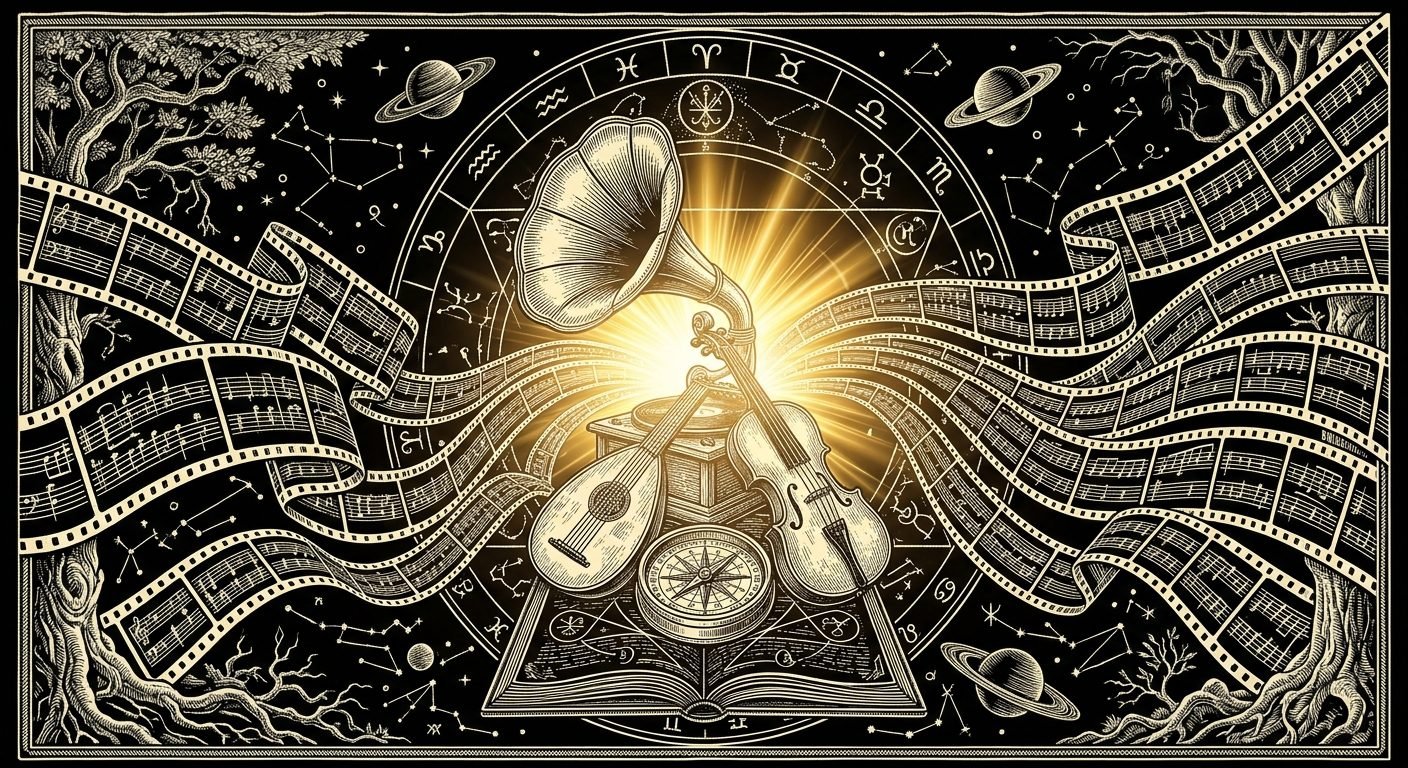
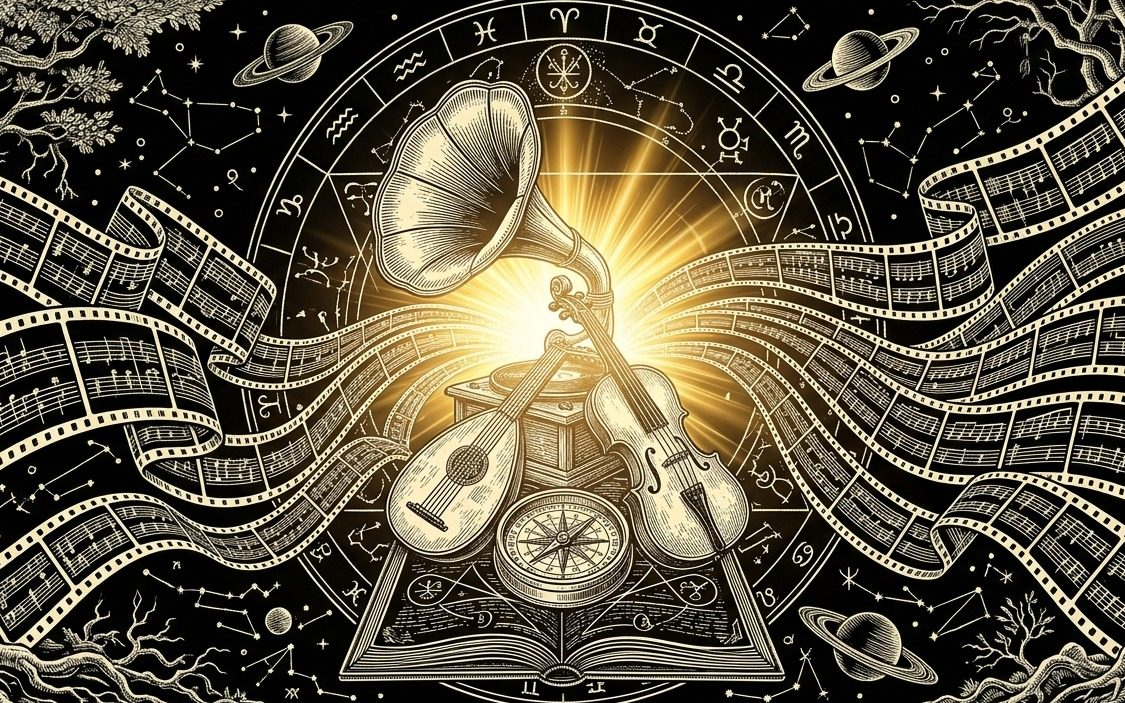
Crop the animated music video card inside its drawn frame
Claude-Session: https://claude.ai/code/session_01HCZU4BLCc4zT5G13vewitE

diff --git a/public/formulated.html b/public/formulated.html
@@ -232,7 +232,7 @@ a[data-yt]{cursor:pointer}
 <div class="bb-gview">
 <div class="bb-frame">
 <div class="bb-gstage">
-<img src="/images/gallery/studio-moment-01.jpg" alt="Studio moment 1" class="bb-gimg">
+<img src="/images/gallery/studio-moment-15.jpg" alt="Studio moment 1" class="bb-gimg">
 
 </div>
 </div>
@@ -250,102 +250,102 @@ a[data-yt]{cursor:pointer}
 <div class="bb-gthumbs" role="list">
 
 <button type="button" class="bb-gth bb-gth-on" aria-label="Show Studio moment 1" aria-current="true" role="listitem">
-<span class="bb-gthimg" style="background-image: url(/images/gallery/studio-moment-01.jpg)"></span>
-
-</button>
-
-<button type="button" class="bb-gth" aria-label="Show Studio moment 2" aria-current="false" role="listitem">
-<span class="bb-gthimg" style="background-image: url(/images/gallery/studio-moment-17.jpg)"></span>
-
-</button>
-
-<button type="button" class="bb-gth" aria-label="Show Studio moment 3" aria-current="false" role="listitem">
-<span class="bb-gthimg" style="background-image: url(/images/gallery/studio-moment-04.jpg)"></span>
-
-</button>
-
-<button type="button" class="bb-gth" aria-label="Show Studio moment 4" aria-current="false" role="listitem">
-<span class="bb-gthimg" style="background-image: url(/images/gallery/studio-moment-20.jpg)"></span>
-
-</button>
-
-<button type="button" class="bb-gth" aria-label="Show Studio moment 5" aria-current="false" role="listitem">
-<span class="bb-gthimg" style="background-image: url(/images/gallery/studio-moment-10.jpg)"></span>
-
-</button>
-
-<button type="button" class="bb-gth" aria-label="Show Studio moment 6" aria-current="false" role="listitem">
-<span class="bb-gthimg" style="background-image: url(/images/gallery/studio-moment-02.jpg)"></span>
-
-</button>
-
-<button type="button" class="bb-gth" aria-label="Show Studio moment 7" aria-current="false" role="listitem">
-<span class="bb-gthimg" style="background-image: url(/images/gallery/studio-moment-12.jpg)"></span>
-
-</button>
-
-<button type="button" class="bb-gth" aria-label="Show Studio moment 8" aria-current="false" role="listitem">
-<span class="bb-gthimg" style="background-image: url(/images/gallery/studio-moment-11.jpg)"></span>
-
-</button>
-
-<button type="button" class="bb-gth" aria-label="Show Studio moment 9" aria-current="false" role="listitem">
-<span class="bb-gthimg" style="background-image: url(/images/gallery/studio-moment-09.jpg)"></span>
-
-</button>
-
-<button type="button" class="bb-gth" aria-label="Show Studio moment 10" aria-current="false" role="listitem">
 <span class="bb-gthimg" style="background-image: url(/images/gallery/studio-moment-15.jpg)"></span>
 
 </button>
 
-<button type="button" class="bb-gth" aria-label="Show Studio moment 11" aria-current="false" role="listitem">
-<span class="bb-gthimg" style="background-image: url(/images/gallery/studio-moment-05.jpg)"></span>
+<button type="button" class="bb-gth" aria-label="Show Studio moment 2" aria-current="false" role="listitem">
+<span class="bb-gthimg" style="background-image: url(/images/gallery/studio-moment-10.jpg)"></span>
 
 </button>
 
-<button type="button" class="bb-gth" aria-label="Show Studio moment 12" aria-current="false" role="listitem">
+<button type="button" class="bb-gth" aria-label="Show Studio moment 3" aria-current="false" role="listitem">
+<span class="bb-gthimg" style="background-image: url(/images/gallery/studio-moment-01.jpg)"></span>
+
+</button>
+
+<button type="button" class="bb-gth" aria-label="Show Studio moment 4" aria-current="false" role="listitem">
 <span class="bb-gthimg" style="background-image: url(/images/gallery/studio-moment-16.jpg)"></span>
 
 </button>
 
-<button type="button" class="bb-gth" aria-label="Show Studio moment 13" aria-current="false" role="listitem">
+<button type="button" class="bb-gth" aria-label="Show Studio moment 5" aria-current="false" role="listitem">
+<span class="bb-gthimg" style="background-image: url(/images/gallery/studio-moment-11.jpg)"></span>
+
+</button>
+
+<button type="button" class="bb-gth" aria-label="Show Studio moment 6" aria-current="false" role="listitem">
 <span class="bb-gthimg" style="background-image: url(/images/gallery/studio-moment-07.jpg)"></span>
 
 </button>
 
-<button type="button" class="bb-gth" aria-label="Show Studio moment 14" aria-current="false" role="listitem">
-<span class="bb-gthimg" style="background-image: url(/images/gallery/studio-moment-19.jpg)"></span>
+<button type="button" class="bb-gth" aria-label="Show Studio moment 7" aria-current="false" role="listitem">
+<span class="bb-gthimg" style="background-image: url(/images/gallery/studio-moment-09.jpg)"></span>
 
 </button>
 
-<button type="button" class="bb-gth" aria-label="Show Studio moment 15" aria-current="false" role="listitem">
+<button type="button" class="bb-gth" aria-label="Show Studio moment 8" aria-current="false" role="listitem">
 <span class="bb-gthimg" style="background-image: url(/images/gallery/studio-moment-14.jpg)"></span>
 
 </button>
 
-<button type="button" class="bb-gth" aria-label="Show Studio moment 16" aria-current="false" role="listitem">
-<span class="bb-gthimg" style="background-image: url(/images/gallery/studio-moment-08.jpg)"></span>
+<button type="button" class="bb-gth" aria-label="Show Studio moment 9" aria-current="false" role="listitem">
+<span class="bb-gthimg" style="background-image: url(/images/gallery/studio-moment-02.jpg)"></span>
 
 </button>
 
-<button type="button" class="bb-gth" aria-label="Show Studio moment 17" aria-current="false" role="listitem">
-<span class="bb-gthimg" style="background-image: url(/images/gallery/studio-moment-06.jpg)"></span>
+<button type="button" class="bb-gth" aria-label="Show Studio moment 10" aria-current="false" role="listitem">
+<span class="bb-gthimg" style="background-image: url(/images/gallery/studio-moment-19.jpg)"></span>
 
 </button>
 
-<button type="button" class="bb-gth" aria-label="Show Studio moment 18" aria-current="false" role="listitem">
-<span class="bb-gthimg" style="background-image: url(/images/gallery/studio-moment-13.jpg)"></span>
-
-</button>
-
-<button type="button" class="bb-gth" aria-label="Show Studio moment 19" aria-current="false" role="listitem">
+<button type="button" class="bb-gth" aria-label="Show Studio moment 11" aria-current="false" role="listitem">
 <span class="bb-gthimg" style="background-image: url(/images/gallery/studio-moment-18.jpg)"></span>
 
 </button>
 
-<button type="button" class="bb-gth" aria-label="Show Studio moment 20" aria-current="false" role="listitem">
+<button type="button" class="bb-gth" aria-label="Show Studio moment 12" aria-current="false" role="listitem">
+<span class="bb-gthimg" style="background-image: url(/images/gallery/studio-moment-04.jpg)"></span>
+
+</button>
+
+<button type="button" class="bb-gth" aria-label="Show Studio moment 13" aria-current="false" role="listitem">
+<span class="bb-gthimg" style="background-image: url(/images/gallery/studio-moment-13.jpg)"></span>
+
+</button>
+
+<button type="button" class="bb-gth" aria-label="Show Studio moment 14" aria-current="false" role="listitem">
+<span class="bb-gthimg" style="background-image: url(/images/gallery/studio-moment-17.jpg)"></span>
+
+</button>
+
+<button type="button" class="bb-gth" aria-label="Show Studio moment 15" aria-current="false" role="listitem">
+<span class="bb-gthimg" style="background-image: url(/images/gallery/studio-moment-12.jpg)"></span>
+
+</button>
+
+<button type="button" class="bb-gth" aria-label="Show Studio moment 16" aria-current="false" role="listitem">
+<span class="bb-gthimg" style="background-image: url(/images/gallery/studio-moment-05.jpg)"></span>
+
+</button>
+
+<button type="button" class="bb-gth" aria-label="Show Studio moment 17" aria-current="false" role="listitem">
+<span class="bb-gthimg" style="background-image: url(/images/gallery/studio-moment-08.jpg)"></span>
+
+</button>
+
+<button type="button" class="bb-gth" aria-label="Show Studio moment 18" aria-current="false" role="listitem">
+<span class="bb-gthimg" style="background-image: url(/images/gallery/studio-moment-20.jpg)"></span>
+
+</button>
+
+<button type="button" class="bb-gth" aria-label="Show Studio moment 19" aria-current="false" role="listitem">
 <span class="bb-gthimg" style="background-image: url(/images/gallery/studio-moment-03.jpg)"></span>
+
+</button>
+
+<button type="button" class="bb-gth" aria-label="Show Studio moment 20" aria-current="false" role="listitem">
+<span class="bb-gthimg" style="background-image: url(/images/gallery/studio-moment-06.jpg)"></span>
 
 </button>
 

diff --git a/design/About.dc.html b/design/About.dc.html
@@ -183,7 +183,7 @@ html{scroll-behavior:smooth}
 <ul class="bb-cards2">
 <li class="bb-card2"><span class="bb-c2img" style="background-image: url(/_blob/4250c15923301c0c09142fe868c0269d)" aria-hidden="true"></span><span class="bb-mono bb-c2from">voice and guitar →</span><span class="bb-c2to">full arrangement</span><span class="bb-body">A single voice and guitar grown into the full sound the song has been reaching for.</span></li>
 <li class="bb-card2"><span class="bb-c2img" style="background-image: url(/_blob/879c08232bfd3dd8d5ad57b4534787a9)" aria-hidden="true"></span><span class="bb-mono bb-c2from">lyric or riff →</span><span class="bb-c2to">co-written song</span><span class="bb-body">Two creative threads woven together into one complete song.</span></li>
-<li class="bb-card2"><span class="bb-c2img" style="background-image: url(/_blob/92f7e80c2ee3fba0910f5f91a8b1ee3c)" aria-hidden="true"></span><span class="bb-mono bb-c2from">finished song →</span><span class="bb-c2to">animated music video</span><span class="bb-body">Music transformed into a visual world, scene by scene, in time with the beat to tell its story.</span></li>
+<li class="bb-card2"><span class="bb-c2img" style="background-image: url(/_blob/bf0e0997b97c6c88e3d843be7d068400)" aria-hidden="true"></span><span class="bb-mono bb-c2from">finished song →</span><span class="bb-c2to">animated music video</span><span class="bb-body">Music transformed into a visual world, scene by scene, in time with the beat to tell its story.</span></li>
 <li class="bb-card2"><span class="bb-c2img" style="background-image: url(/_blob/c77ef405268706f9a383613ce30b12d5)" aria-hidden="true"></span><span class="bb-mono bb-c2from">a great jam →</span><span class="bb-c2to">filmed live session</span><span class="bb-body">The fire of a live performance, captured on cameras from multiple angles, preserving the heat of the moment.</span></li>
 <li class="bb-card2"><span class="bb-c2img" style="background-image: url(/_blob/6575b734ee2267be666cc029a53f75d8)" aria-hidden="true"></span><span class="bb-mono bb-c2from">rough demo →</span><span class="bb-c2to">release-ready track</span><span class="bb-body">Raw material refined through recording, production and mixing into a finished track.</span></li>
 <li class="bb-card2 bb-card2-cta"><span class="bb-c2img" style="background-image: url(/_blob/3212aaac7f1d7abeb9f2349c5e4915b8)" aria-hidden="true"></span><span class="bb-mono bb-c2from">an open door →</span><span class="bb-c2to">something else in mind?</span><span class="bb-body">Every project follows its own path. Tell us where you want to take yours.</span><a href="Connect.dc.html" class="bb-link">Start a conversation →</a></li>

diff --git a/tools/assets.py b/tools/assets.py
@@ -63,7 +63,7 @@ M={
  '9c8fa6a18cf9fc595d34a2bfffc32891':('players/bass3.jpg','images/players/brian-hutchison.jpg'),
  '4250c15923301c0c09142fe868c0269d':('players/card1-tree.jpg','images/formulated/card-full-arrangement.jpg'),
  '879c08232bfd3dd8d5ad57b4534787a9':('players/card2-threads.jpg','images/formulated/card-co-written-song.jpg'),
- '92f7e80c2ee3fba0910f5f91a8b1ee3c':('players/card3-filmstrip.jpg','images/formulated/card-animated-video-v2.jpg'),
+ 'bf0e0997b97c6c88e3d843be7d068400':('players/card3-filmstrip-crop.jpg','images/formulated/card-animated-video-v2.jpg'),
  'c77ef405268706f9a383613ce30b12d5':('players/card4-lantern.jpg','images/formulated/card-live-session.jpg'),
  '6575b734ee2267be666cc029a53f75d8':('players/card5-crucible-v3.jpg','images/formulated/card-release-ready-v2.jpg'),
  '3212aaac7f1d7abeb9f2349c5e4915b8':('players/card6-door.jpg','images/formulated/card-open-door.jpg'),
